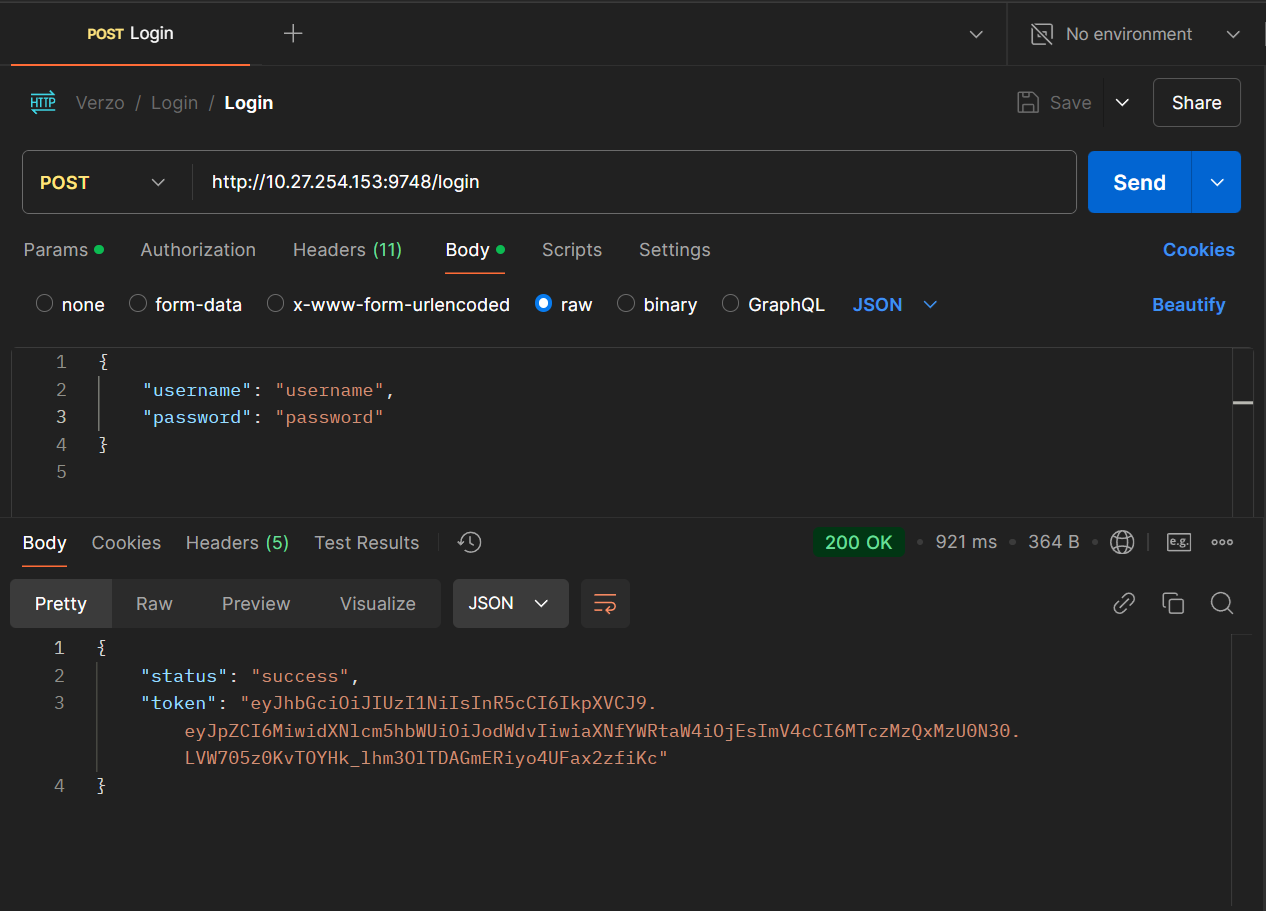
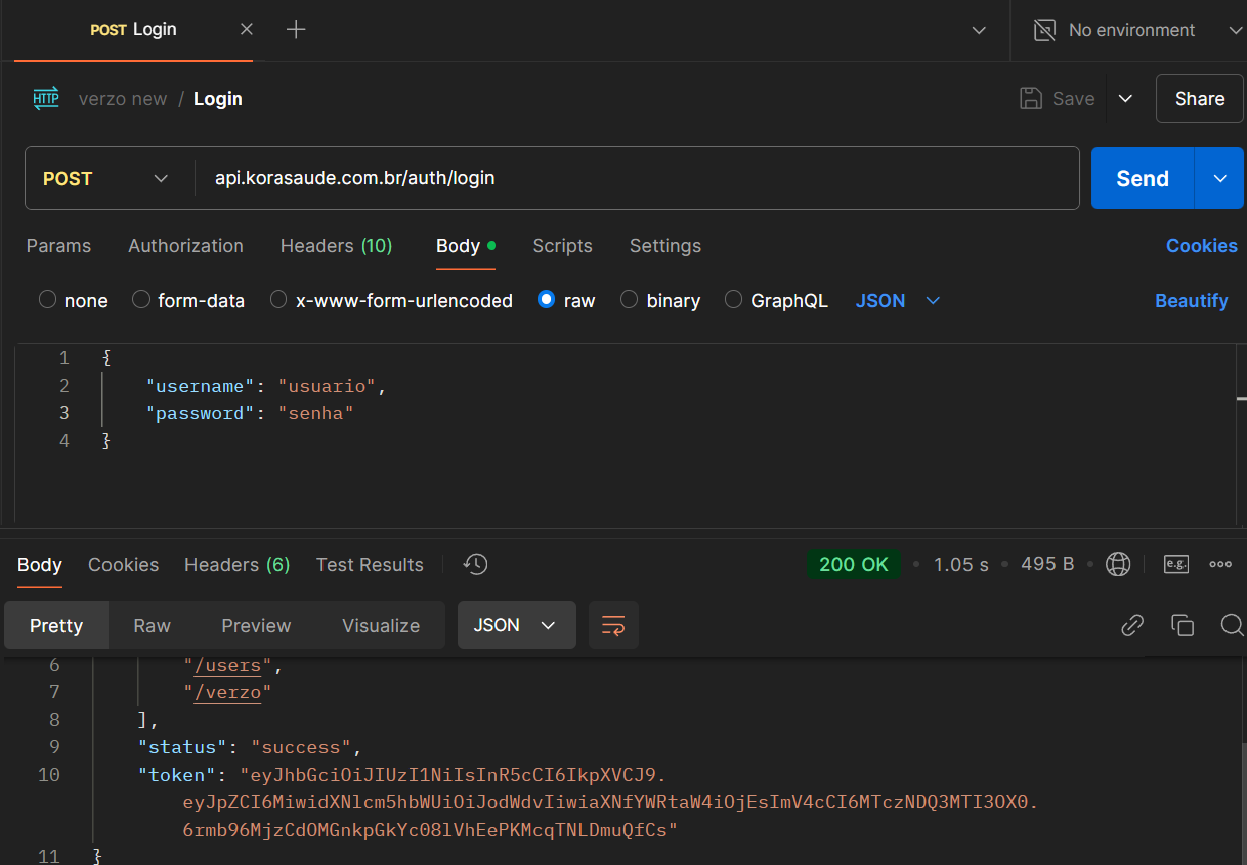
subindo jwt com cookie

diff --git a/static/html/verzo.html b/static/html/verzo.html
@@ -157,37 +157,37 @@
                 <h3 style="text-align: center;">Rotas MV</h3>
                 <br><br>
                 <ul>
-                    <li>/verzo/mv/ATENDIME</li>
-                    <li>/verzo/mv/CONFIG_UNIDADE</li>
-                    <li>/verzo/mv/CONVENIO</li>
-                    <li>/verzo/mv/EMPRESA_CON_PLA</li>
-                    <li>/verzo/mv/EMPRESA_PRODUTO</li>
-                    <li>/verzo/mv/ENT_PRO</li>
-                    <li>/verzo/mv/ESPECIE</li>
-                    <li>/verzo/mv/ESTOQUE</li>
-                    <li>/verzo/mv/GRU_PRO</li>
-                    <li>/verzo/mv/GRUPO_UNIDADE</li>
-                    <li>/verzo/mv/IMP_BRA</li>
-                    <li>/verzo/mv/ITREG_FAT</li>
-                    <li>/verzo/mv/ITREGRA</li>
-                    <li>/verzo/mv/LAB_PRO</li>
-                    <li>/verzo/mv/LOTE</li>
-                    <li>/verzo/mv/MULTI_EMPRESAS</li>
-                    <li>/verzo/mv/MVTO_ESTOQUE</li>
-                    <li>/verzo/mv/PRO_FAT</li>
-                    <li>/verzo/mv/PRODUTO</li>
-                    <li>/verzo/mv/REG_AMB</li>
-                    <li>/verzo/mv/REG_FAT</li>
-                    <li>/verzo/mv/REGRA_LANCAMENTO</li>
-                    <li>/verzo/mv/REGRA_SUBSTITUICAO_PROCED</li>
-                    <li>/verzo/mv/SETOR</li>
-                    <li>/verzo/mv/TAB_CONVENIO</li>
-                    <li>/verzo/mv/TAB_FAT</li>
-                    <li>/verzo/mv/TIP_DOC</li>
-                    <li>/verzo/mv/TUSS_OM</li>
-                    <li>/verzo/mv/TUSS</li>
-                    <li>/verzo/mv/UNI_PRO</li>
-                    <li>/verzo/mv/VAL_PRO</li>
+                    <li>/verzo/MV/sigla_hospital/ATENDIME</li>
+                    <li>/verzo/MV/sigla_hospital/CONFIG_UNIDADE</li>
+                    <li>/verzo/MV/sigla_hospital/CONVENIO</li>
+                    <li>/verzo/MV/sigla_hospital/EMPRESA_CON_PLA</li>
+                    <li>/verzo/MV/sigla_hospital/EMPRESA_PRODUTO</li>
+                    <li>/verzo/MV/sigla_hospital/ENT_PRO</li>
+                    <li>/verzo/MV/sigla_hospital/ESPECIE</li>
+                    <li>/verzo/MV/sigla_hospital/ESTOQUE</li>
+                    <li>/verzo/MV/sigla_hospital/GRU_PRO</li>
+                    <li>/verzo/MV/sigla_hospital/GRUPO_UNIDADE</li>
+                    <li>/verzo/MV/sigla_hospital/IMP_BRA</li>
+                    <li>/verzo/MV/sigla_hospital/ITREG_FAT</li>
+                    <li>/verzo/MV/sigla_hospital/ITREGRA</li>
+                    <li>/verzo/MV/sigla_hospital/LAB_PRO</li>
+                    <li>/verzo/MV/sigla_hospital/LOTE</li>
+                    <li>/verzo/MV/sigla_hospital/MULTI_EMPRESAS</li>
+                    <li>/verzo/MV/sigla_hospital/MVTO_ESTOQUE</li>
+                    <li>/verzo/MV/sigla_hospital/PRO_FAT</li>
+                    <li>/verzo/MV/sigla_hospital/PRODUTO</li>
+                    <li>/verzo/MV/sigla_hospital/REG_AMB</li>
+                    <li>/verzo/MV/sigla_hospital/REG_FAT</li>
+                    <li>/verzo/MV/sigla_hospital/REGRA_LANCAMENTO</li>
+                    <li>/verzo/MV/sigla_hospital/REGRA_SUBSTITUICAO_PROCED</li>
+                    <li>/verzo/MV/sigla_hospital/SETOR</li>
+                    <li>/verzo/MV/sigla_hospital/TAB_CONVENIO</li>
+                    <li>/verzo/MV/sigla_hospital/TAB_FAT</li>
+                    <li>/verzo/MV/sigla_hospital/TIP_DOC</li>
+                    <li>/verzo/MV/sigla_hospital/TUSS_OM</li>
+                    <li>/verzo/MV/sigla_hospital/TUSS</li>
+                    <li>/verzo/MV/sigla_hospital/UNI_PRO</li>
+                    <li>/verzo/MV/sigla_hospital/VAL_PRO</li>
                 </ul>
                 </p>
             </section>
@@ -219,42 +219,42 @@
                     </ul>
                     <h3 style="text-align: center;">Rotas TASY</h3>
                     <br><br>
-                    <li>/verzo/tasy/BRASINDICE_PRECO</li>
-                    <li>/verzo/tasy/CATEGORIA_CONVENIO</li>
-                    <li>/verzo/tasy/CLASSE_MATERIAL</li>
-                    <li>/verzo/tasy/CONTA_PACIENTE</li>
-                    <li>/verzo/tasy/CONVENIO</li>
-                    <li>/verzo/tasy/CONVENIO_AMB</li>
-                    <li>/verzo/tasy/CONVENIO_BRASINDICE</li>
-                    <li>/verzo/tasy/CONVENIO_ESTABELECIMENTO</li>
-                    <li>/verzo/tasy/CONVENIO_PRECO_MAT</li>
-                    <li>/verzo/tasy/CONVENIO_SIMPRO</li>
-                    <li>/verzo/tasy/CONVERSAO_MATERIAL_CONVENIO</li>
-                    <li>/verzo/tasy/ESTABELECIMENTO</li>
-                    <li>/verzo/tasy/GRUPO_MATERIAL</li>
-                    <li>/verzo/tasy/KIT_MATERIAL</li>
-                    <li>/verzo/tasy/MATERIAL</li>
-                    <li>/verzo/tasy/MATERIAL_ATEND_PACIENTE</li>
-                    <li>/verzo/tasy/MATERIAL_BRASINDICE</li>
-                    <li>/verzo/tasy/MATERIAL_CONVERSAO_UNIDADE</li>
-                    <li>/verzo/tasy/MATERIAL_ESTAB</li>
-                    <li>/verzo/tasy/MATERIAL_REGRA_QT_FAT</li>
-                    <li>/verzo/tasy/MATERIAL_SIMPRO</li>
-                    <li>/verzo/tasy/MATERIAL_TUSS</li>
-                    <li>/verzo/tasy/MEDIC_FICHA_TECNICA</li>
-                    <li>/verzo/tasy/NATUREZA_OPERACAO</li>
-                    <li>/verzo/tasy/NOTA_FISCAL</li>
-                    <li>/verzo/tasy/NOTA_FISCAL_ITEM</li>
-                    <li>/verzo/tasy/OPERACAO_NOTA</li>
-                    <li>/verzo/tasy/PARAMETRO_FATURAMENTO</li>
-                    <li>/verzo/tasy/PRECO_MATERIAL</li>
-                    <li>/verzo/tasy/REGRA_BRASINDICE_PRECO</li>
-                    <li>/verzo/tasy/REGRA_CONVENIO_PLANO</li>
-                    <li>/verzo/tasy/SALDO_ESTOQUE</li>
-                    <li>/verzo/tasy/SIMPRO_PRECO</li>
-                    <li>/verzo/tasy/SUBGRUPO_MATERIAL</li>
-                    <li>/verzo/tasy/TABELA_PRECO_MATERIAL</li>
-                    <li>/verzo/tasy/TISS_TIPO_TABELA</li>
+                    <li>/verzo/TASY/sigla_hospital/BRASINDICE_PRECO</li>
+                    <li>/verzo/TASY/sigla_hospital/CATEGORIA_CONVENIO</li>
+                    <li>/verzo/TASY/sigla_hospital/CLASSE_MATERIAL</li>
+                    <li>/verzo/TASY/sigla_hospital/CONTA_PACIENTE</li>
+                    <li>/verzo/TASY/sigla_hospital/CONVENIO</li>
+                    <li>/verzo/TASY/sigla_hospital/CONVENIO_AMB</li>
+                    <li>/verzo/TASY/sigla_hospital/CONVENIO_BRASINDICE</li>
+                    <li>/verzo/TASY/sigla_hospital/CONVENIO_ESTABELECIMENTO</li>
+                    <li>/verzo/TASY/sigla_hospital/CONVENIO_PRECO_MAT</li>
+                    <li>/verzo/TASY/sigla_hospital/CONVENIO_SIMPRO</li>
+                    <li>/verzo/TASY/sigla_hospital/CONVERSAO_MATERIAL_CONVENIO</li>
+                    <li>/verzo/TASY/sigla_hospital/ESTABELECIMENTO</li>
+                    <li>/verzo/TASY/sigla_hospital/GRUPO_MATERIAL</li>
+                    <li>/verzo/TASY/sigla_hospital/KIT_MATERIAL</li>
+                    <li>/verzo/TASY/sigla_hospital/MATERIAL</li>
+                    <li>/verzo/TASY/sigla_hospital/MATERIAL_ATEND_PACIENTE</li>
+                    <li>/verzo/TASY/sigla_hospital/MATERIAL_BRASINDICE</li>
+                    <li>/verzo/TASY/sigla_hospital/MATERIAL_CONVERSAO_UNIDADE</li>
+                    <li>/verzo/TASY/sigla_hospital/MATERIAL_ESTAB</li>
+                    <li>/verzo/TASY/sigla_hospital/MATERIAL_REGRA_QT_FAT</li>
+                    <li>/verzo/TASY/sigla_hospital/MATERIAL_SIMPRO</li>
+                    <li>/verzo/TASY/sigla_hospital/MATERIAL_TUSS</li>
+                    <li>/verzo/TASY/sigla_hospital/MEDIC_FICHA_TECNICA</li>
+                    <li>/verzo/TASY/sigla_hospital/NATUREZA_OPERACAO</li>
+                    <li>/verzo/TASY/sigla_hospital/NOTA_FISCAL</li>
+                    <li>/verzo/TASY/sigla_hospital/NOTA_FISCAL_ITEM</li>
+                    <li>/verzo/TASY/sigla_hospital/OPERACAO_NOTA</li>
+                    <li>/verzo/TASY/sigla_hospital/PARAMETRO_FATURAMENTO</li>
+                    <li>/verzo/TASY/sigla_hospital/PRECO_MATERIAL</li>
+                    <li>/verzo/TASY/sigla_hospital/REGRA_BRASINDICE_PRECO</li>
+                    <li>/verzo/TASY/sigla_hospital/REGRA_CONVENIO_PLANO</li>
+                    <li>/verzo/TASY/sigla_hospital/SALDO_ESTOQUE</li>
+                    <li>/verzo/TASY/sigla_hospital/SIMPRO_PRECO</li>
+                    <li>/verzo/TASY/sigla_hospital/SUBGRUPO_MATERIAL</li>
+                    <li>/verzo/TASY/sigla_hospital/TABELA_PRECO_MATERIAL</li>
+                    <li>/verzo/TASY/sigla_hospital/TISS_TIPO_TABELA</li>
                 </ul>
 
                 </p>

diff --git a/app/controllers/auth_controller.py b/app/controllers/auth_controller.py
@@ -1,4 +1,4 @@
-from flask import Blueprint, request, jsonify
+from flask import Blueprint, request, jsonify, make_response
 from app.services.auth_service import AuthService
 
 # Definição do Blueprint
@@ -7,54 +7,31 @@ auth_bp = Blueprint('auth', __name__, url_prefix='/auth')
 @auth_bp.route('/login', methods=['POST'])
 def login():
     """
-    Realiza login e gera um token JWT.
-    ---
-    tags:
-      - Autenticação
-    parameters:
-      - name: body
-        in: body
-        required: true
-        schema:
-          type: object
-          required:
-            - username
-            - password
-          properties:
-            username:
-              type: string
-              example: "admin"
-            password:
-              type: string
-              example: "senha123"
-    responses:
-      200:
-        description: Login bem-sucedido, retorna o token JWT.
-        schema:
-          type: object
-          properties:
-            status:
-              type: string
-              example: "success"
-            token:
-              type: string
-              example: "eyJhbGciOiJIUzI1NiIsInR5cCI6IkpXVCJ9..."
-      401:
-        description: Credenciais inválidas.
-        schema:
-          type: object
-          properties:
-            status:
-              type: string
-              example: "error"
-            message:
-              type: string
-              example: "Usuário ou senha inválidos"
-      500:
-        description: Erro interno no servidor.
+    Realiza login e gera um token JWT como cookie seguro.
     """
     data = request.json
     username = data.get('username')
     password = data.get('password')
-    response = AuthService.login(username, password)
-    return jsonify(response), response.get("status_code", 200)
+    response_data = AuthService.login(username, password)
+
+    # Se o login falhar, retorne a mensagem
+    if response_data.get("status") != "success":
+        return jsonify(response_data), response_data.get("status_code", 401)
+
+    # Caso de sucesso, enviar o token como HttpOnly cookie
+    token = response_data.get("token")
+
+    # Criar a resposta e definir o cookie seguro
+    response = make_response(jsonify({
+        "status": "success",
+        "routes": response_data.get("routes")
+    }))
+    response.set_cookie(
+        key="jwt_token",
+        value=token,
+        httponly=True,  # Torna o cookie HttpOnly
+        secure=True,    # Garante que o cookie seja enviado apenas em conexões HTTPS
+        samesite="Strict",  # Restringe o envio do cookie apenas no mesmo site
+        max_age=3600  # Define o tempo de expiração do cookie (em segundos)
+    )
+    return response

diff --git a/app/controllers/verzo_controller.py b/app/controllers/verzo_controller.py
@@ -45,8 +45,8 @@ TASY_DATABASES = [
 ]
 
 @verzo_bp.route('/', methods=['GET'])
-@token_required
-@permission_required(route_prefix='/verzo')
+# @token_required
+# @permission_required(route_prefix='/verzo')
 def home(*args, **kwargs):
     """
     Página inicial da API.
@@ -65,8 +65,8 @@ def home(*args, **kwargs):
     return send_from_directory(static_path, 'index.html')
 
 @verzo_bp.route('/docs', methods=['GET'])
-@token_required
-@permission_required(route_prefix='/verzo')
+# @token_required
+# @permission_required(route_prefix='/verzo')
 def verzo_page(*args, **kwargs):
     """
     Rota para exibir a página Verzo.

diff --git a/main.py b/main.py
@@ -64,4 +64,4 @@ def home():
     return {"message": "Bem-vindo à API Verzo!"}, 200
 
 if __name__ == "__main__":
-    app.run(host="0.0.0.0", port=3792, debug=True)
+    app.run(host="0.0.0.0", port=3793, debug=True)
